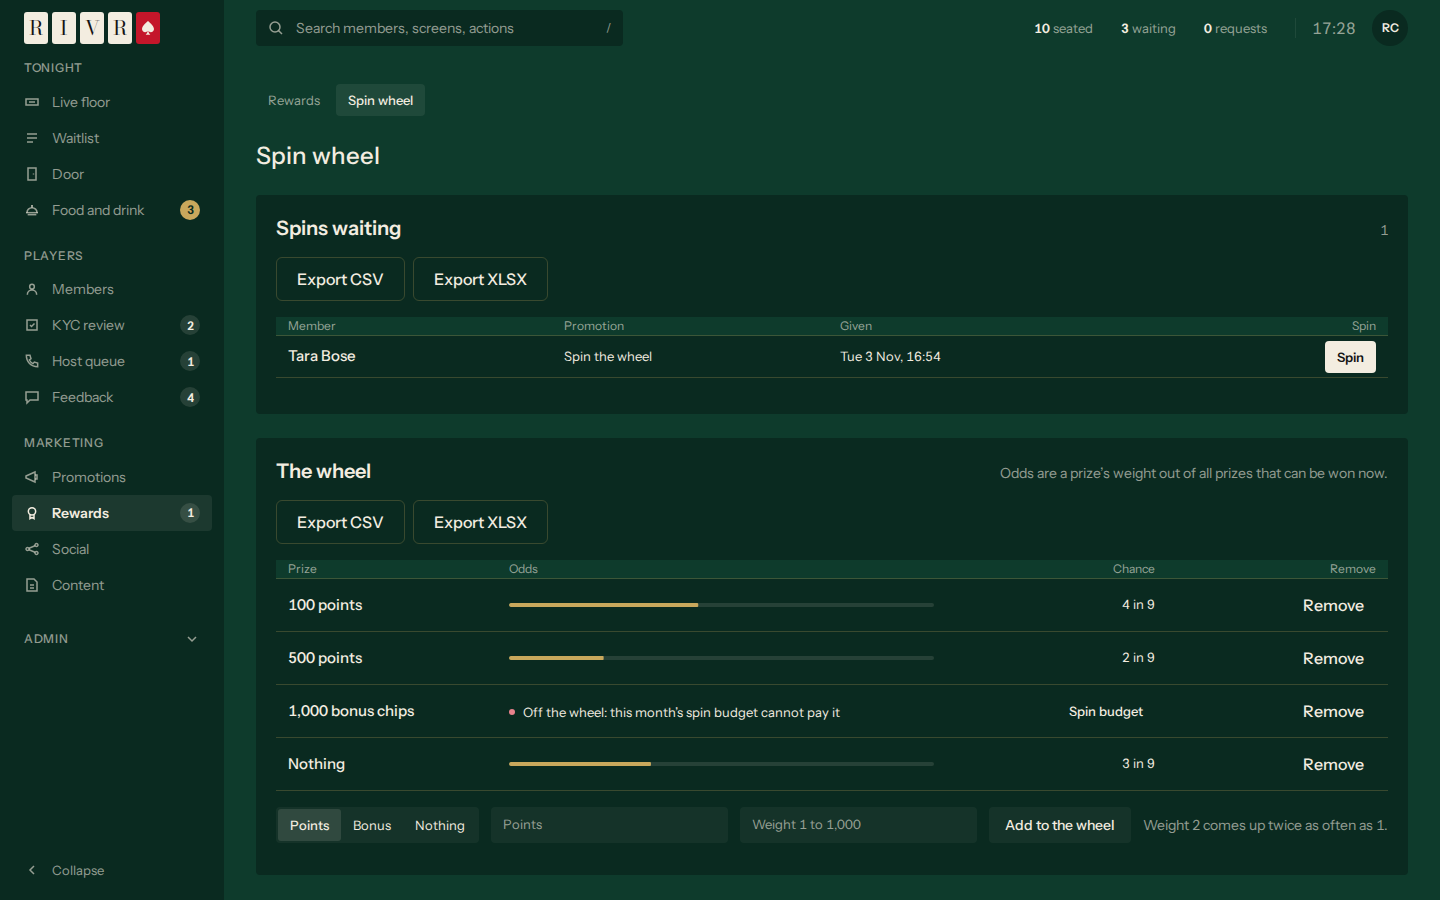
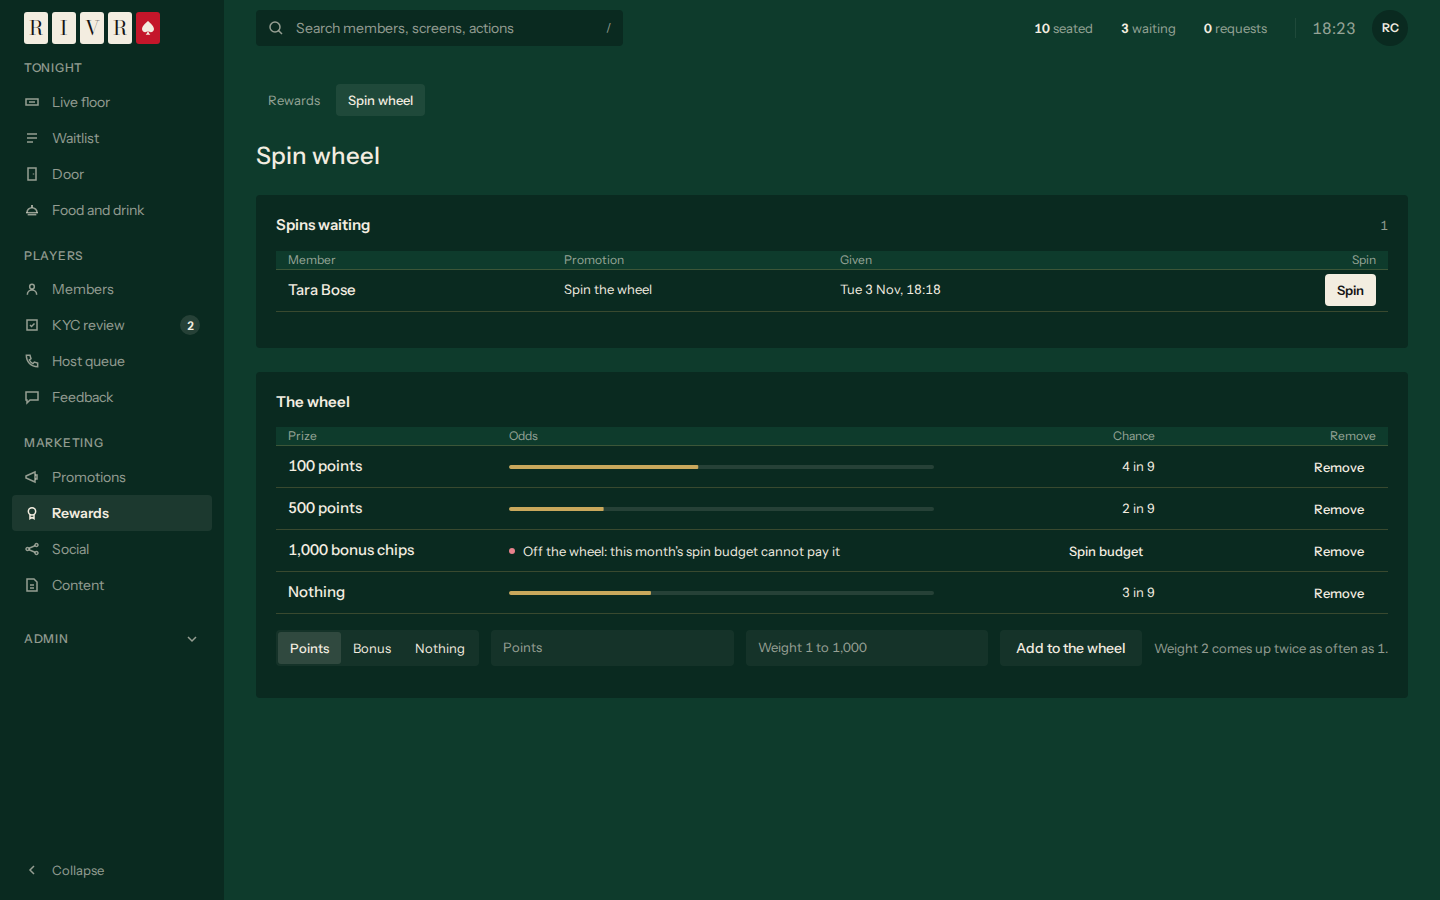
fix(spin-wheel): the budget link reaches Settings' area, for those who may
The off-the-wheel reason links to /settings?tab=settings&part=members,
and only for staff who may open Settings. The wheel's tables leave out
exports, Remove is small, the hint under the wheel is gone, and the
Rewards panels use the console's card headings and row text.

diff --git a/apps/console/src/features/spin-wheel/components/PrizeWheel.tsx b/apps/console/src/features/spin-wheel/components/PrizeWheel.tsx
@@ -1,12 +1,23 @@
 import { useSpinWheel, useSpinWheelActions, type SpinPrize } from '@rivr/db/spin';
 import { formatNumber, t } from '@rivr/i18n';
-import { Box, Button, ConfirmButton, DataTable, DotStatus, ErrorMessage, Heading, Inline, ProgressBar, Stack, Text, type DataTableColumn } from '@rivr/ui';
+import { Box, Button, ConfirmButton, DataTable, DataTableExportProvider, DotStatus, ErrorMessage, Heading, ProgressBar, Stack, type DataTableColumn } from '@rivr/ui';
 import { useState } from 'react';
 import { PrizeForm } from './PrizeForm.tsx';
 import { prizeLabel } from './prizeLabel.ts';
 
-// The spin budget is a rule of the Members and rewards area on Settings (spin.budget).
-const SPIN_BUDGET_SETTING = '/settings?tab=members';
+// The spin budget is a rule of Settings' Members and rewards area (spin.budget), a part of its Settings tab.
+const SPIN_BUDGET_SETTING = '/settings?tab=settings&part=members';
+
+/** What the wheel's rows need to draw: the weights of the prizes that can be won now, and who may do what. */
+interface WheelLook {
+  readonly total: number;
+  /** Staff who keep the wheel remove prizes; null for others. */
+  readonly onRemove: ((prize: SpinPrize) => void) | null;
+  /** Staff who open Settings' rules (settings.manage or venue.configure) get the way to the spin budget. */
+  readonly canOpenSettings: boolean;
+}
+
+const oddsText = (prize: SpinPrize, total: number) => t('console.spin.oddsValue', { weight: formatNumber(prize.weight), odds: formatNumber(total) });
 
 /**
  * A prize's odds: its weight's share of the prizes that can be won now as a bar; or, for a bonus this month's spin budget
@@ -17,30 +28,40 @@ function OddsCell({ prize, total }: { prize: SpinPrize; total: number }) {
   return <DotStatus tone="danger" label={t('console.spin.budgetSpent')} />;
 }
 
-/** Its chance in words, "4 in 9"; off the wheel, the way to the spin budget in its place, on the same line. */
-function ChanceCell({ prize, total }: { prize: SpinPrize; total: number }) {
-  if (prize.isDrawable) return <>{t('console.spin.oddsValue', { weight: formatNumber(prize.weight), odds: formatNumber(total) })}</>;
+/** Its chance in words, "4 in 9"; off the wheel, "Off", or the way to the spin budget for staff who may change it. */
+function ChanceCell({ prize, look }: { prize: SpinPrize; look: WheelLook }) {
+  if (prize.isDrawable) return <>{oddsText(prize, look.total)}</>;
+  if (!look.canOpenSettings) return <>{t('console.spin.offWheel')}</>;
   return <Button variant="text" size="small" href={SPIN_BUDGET_SETTING}>{t('console.spin.budgetLink')}</Button>;
 }
 
 /** What it gives, its odds, its chance, and Remove for staff who keep the wheel. */
-function columnsFor(total: number, onRemove: ((prize: SpinPrize) => void) | null): readonly DataTableColumn<SpinPrize>[] {
+function columnsFor(look: WheelLook): readonly DataTableColumn<SpinPrize>[] {
   const columns: DataTableColumn<SpinPrize>[] = [
     { key: 'prize', header: t('console.spin.prize'), cell: (row) => prizeLabel(row) },
-    { key: 'odds', header: t('console.spin.odds'), isWide: true, cell: (row) => <OddsCell prize={row} total={total} /> },
-    { key: 'chance', header: t('console.spin.chance'), align: 'end', cell: (row) => <ChanceCell prize={row} total={total} />,
-      exportValue: (row) => (row.isDrawable ? t('console.spin.oddsValue', { weight: formatNumber(row.weight), odds: formatNumber(total) }) : t('console.spin.budgetSpent')) },
+    { key: 'odds', header: t('console.spin.odds'), isWide: true, cell: (row) => <OddsCell prize={row} total={look.total} /> },
+    { key: 'chance', header: t('console.spin.chance'), align: 'end', cell: (row) => <ChanceCell prize={row} look={look} />,
+      exportValue: (row) => (row.isDrawable ? oddsText(row, look.total) : t('console.spin.budgetSpent')) },
   ];
+  const { onRemove } = look;
   if (onRemove === null) return columns;
   // Asked twice: a removed prize is gone from the wheel at once (F2-21).
   return [...columns, { key: 'remove', header: t('console.spin.remove'), align: 'end', cell: (row) => (
-    <ConfirmButton label={t('console.spin.remove')} name={t('console.spin.removeName', { prize: prizeLabel(row) })}
+    <ConfirmButton variant="text" size="small" label={t('console.spin.remove')} name={t('console.spin.removeName', { prize: prizeLabel(row) })}
       confirm={t('console.spin.confirmRemove', { prize: prizeLabel(row) })} onConfirm={() => onRemove(row)} />
   ) }];
 }
 
+interface WheelProps {
+  readonly venueId: string;
+  /** promotions.manage: add and remove prizes. */
+  readonly canKeep: boolean;
+  /** settings.manage or venue.configure: the link to the spin budget on Settings. */
+  readonly canOpenSettings: boolean;
+}
+
 /** The prizes as a table, or its loading or error state. */
-function PrizeRows({ venueId, canKeep }: { venueId: string; canKeep: boolean }) {
+function PrizeRows({ venueId, canKeep, canOpenSettings }: WheelProps) {
   const wheel = useSpinWheel(venueId);
   const { remove } = useSpinWheelActions(venueId);
   const [failure, setFailure] = useState<string | null>(null);
@@ -49,7 +70,7 @@ function PrizeRows({ venueId, canKeep }: { venueId: string; canKeep: boolean }) 
     setFailure(done.ok ? null : t(`console.spin.failures.${done.error}`));
   }) : null;
   // On a phone the prizes keep their lines, scrolling sideways, so a bar and an off-the-wheel reason keep their room.
-  const base = { label: t('console.spin.wheel'), columns: columnsFor(total, onRemove), rowKey: (row: SpinPrize) => row.prizeId, narrowLayout: 'scroll' as const };
+  const base = { label: t('console.spin.wheel'), columns: columnsFor({ total, onRemove, canOpenSettings }), rowKey: (row: SpinPrize) => row.prizeId, narrowLayout: 'scroll' as const };
   return (
     <>
       {wheel.data === undefined && wheel.isError ? <DataTable {...base} status="error" onRetry={() => void wheel.refetch()} /> : null}
@@ -60,17 +81,17 @@ function PrizeRows({ venueId, canKeep }: { venueId: string; canKeep: boolean }) 
   );
 }
 
-/** The wheel's prizes in order (#150), with their odds, on one raised panel; staff who run promotions add and remove prizes. */
-export function PrizeWheel({ venueId, canKeep }: { venueId: string; canKeep: boolean }) {
+/**
+ * The wheel's prizes in order (#150), with their odds, on one raised panel; staff who run promotions add and remove prizes.
+ * No export: the prizes are the screen itself, not a record to keep.
+ */
+export function PrizeWheel(props: WheelProps) {
   return (
     <Box surface="raised" radius="md" padding={5}>
       <Stack gap={4}>
-        <Inline justify="between" align="baseline" gap={3} wrap>
-          <Heading level={2} variant="section">{t('console.spin.wheel')}</Heading>
-          <Text variant="small" tone="muted">{t('console.spin.wheelHint')}</Text>
-        </Inline>
-        <PrizeRows venueId={venueId} canKeep={canKeep} />
-        {canKeep ? <PrizeForm venueId={venueId} /> : null}
+        <Heading level={2} variant="card">{t('console.spin.wheel')}</Heading>
+        <DataTableExportProvider exporter={null}><PrizeRows {...props} /></DataTableExportProvider>
+        {props.canKeep ? <PrizeForm venueId={props.venueId} /> : null}
       </Stack>
     </Box>
   );

diff --git a/apps/console/src/features/spin-wheel/components/PrizeWheel.test.tsx b/apps/console/src/features/spin-wheel/components/PrizeWheel.test.tsx
@@ -1,4 +1,5 @@
 import { createRivrClient, RivrDataProvider, SESSION_STORAGE_KEY } from '@rivr/db';
+import { DataTableExportProvider } from '@rivr/ui';
 import { QueryClient } from '@tanstack/react-query';
 import { cleanup, fireEvent, render, screen, waitFor, within } from '@testing-library/react';
 import { afterEach, describe, expect, it, vi } from 'vitest';
@@ -18,8 +19,11 @@ const ON_WHEEL = [
   { prize_id: 'p4', kind: 'nothing', amount: 0, weight: 3, is_drawable: true },
 ];
 
-/** Aditya, who runs promotions, signed in, and a fake API with the wheel's prizes that keeps each removal sent. */
-function renderPrizes(prizes: readonly object[] = ON_WHEEL) {
+/**
+ * Aditya, who runs promotions, signed in beneath the console's exports, and a fake API with the wheel's prizes that keeps
+ * each removal sent; `canOpenSettings` for staff who open Settings' rules.
+ */
+function renderPrizes(prizes: readonly object[] = ON_WHEEL, canOpenSettings = true) {
   localStorage.setItem(SESSION_STORAGE_KEY, JSON.stringify({
     access_token: 'test', refresh_token: 'test', token_type: 'bearer', expires_in: 3600, expires_at: Math.floor(Date.now() / 1000) + 3600,
     user: { id: '00000000-0000-4000-8000-000000000103', aud: 'authenticated', app_metadata: {}, user_metadata: {}, created_at: '2026-10-18T00:00:00Z' },
@@ -37,7 +41,9 @@ function renderPrizes(prizes: readonly object[] = ON_WHEEL) {
   const cache = new QueryClient({ defaultOptions: { queries: { retry: false } } });
   render(
     <RivrDataProvider client={createRivrClient({ url: 'http://127.0.0.1:9', publishableKey: 'test' })} queryClient={cache}>
-      <PrizeWheel venueId="v1" canKeep />
+      <DataTableExportProvider exporter={async () => true}>
+        <PrizeWheel venueId="v1" canKeep canOpenSettings={canOpenSettings} />
+      </DataTableExportProvider>
     </RivrDataProvider>,
   );
   return removed;
@@ -52,12 +58,26 @@ describe('PrizeWheel', () => {
     expect(within(wheel).getByRole('row', { name: /Nothing.*3 in 9/ })).toBeDefined();
   });
 
-  it('says why a bonus is off the wheel, and links to the spin budget', async () => {
+  it('says why a bonus is off the wheel, and links staff who open Settings to the spin budget there', async () => {
     renderPrizes();
     const row = await screen.findByRole('row', { name: /1,000 bonus chips/ }, { timeout: 5000 });
     expect(within(row).getByText('Off the wheel: this month’s spin budget cannot pay it')).toBeDefined();
-    expect(within(row).getByRole('link', { name: 'Spin budget' }).getAttribute('href')).toBe('/settings?tab=members');
+    expect(within(row).getByRole('link', { name: 'Spin budget' }).getAttribute('href')).toBe('/settings?tab=settings&part=members');
     expect(within(row).queryByText(/ in 9$/)).toBeNull();
+  });
+
+  it('gives staff who cannot open Settings the reason alone, the prize Off', async () => {
+    renderPrizes(ON_WHEEL, false);
+    const row = await screen.findByRole('row', { name: /1,000 bonus chips/ }, { timeout: 5000 });
+    expect(within(row).getByText('Off the wheel: this month’s spin budget cannot pay it')).toBeDefined();
+    expect(within(row).getByText('Off')).toBeDefined();
+    expect(within(row).queryByRole('link')).toBeNull();
+  });
+
+  it('offers no export of the prizes, though the console exports its tables', async () => {
+    renderPrizes();
+    await screen.findByRole('table', { name: 'The wheel' }, { timeout: 5000 });
+    expect(screen.queryByRole('button', { name: /^Export / })).toBeNull();
   });
 
   it('removes a prize only on the second press', async () => {

diff --git a/apps/console/src/features/spin-wheel/components/WaitingSpins.tsx b/apps/console/src/features/spin-wheel/components/WaitingSpins.tsx
@@ -1,6 +1,6 @@
 import { useSpin, useSpinWheel, useWaitingSpins, type WaitingSpin } from '@rivr/db/spin';
 import { formatDayTime, formatNumber, t } from '@rivr/i18n';
-import { Box, Button, DataTable, ErrorMessage, Heading, Inline, Stack, StatusMessage, Text, type DataTableColumn } from '@rivr/ui';
+import { Box, Button, DataTable, DataTableExportProvider, ErrorMessage, Heading, Inline, Stack, StatusMessage, Text, type DataTableColumn } from '@rivr/ui';
 import { useState, type ReactNode } from 'react';
 import { prizeLabel } from './prizeLabel.ts';
 
@@ -17,8 +17,8 @@ function WaitingHeading({ saysWhy, count }: { saysWhy: boolean; count: number | 
   return (
     <Stack gap={2}>
       <Inline justify="between" align="baseline" gap={3}>
-        <Heading level={2} variant="section">{t('console.spin.waiting')}</Heading>
-        {count === undefined ? null : <Text variant="small" tone="muted">{formatNumber(count)}</Text>}
+        <Heading level={2} variant="card">{t('console.spin.waiting')}</Heading>
+        {count === undefined ? null : <Text variant="secondary" tone="muted">{formatNumber(count)}</Text>}
       </Inline>
       {saysWhy ? <Text>{t('console.spin.noDrawable')}</Text> : null}
     </Stack>
@@ -65,7 +65,8 @@ export function WaitingSpins({ venueId }: { venueId: string }) {
     <Box surface="raised" radius="md" padding={5}>
       <Stack gap={4}>
         <WaitingHeading saysWhy={saysWhy} count={waiting.data?.length} />
-        <WaitingRows waiting={waiting} columns={columnsFor(spinButton)} />
+        {/* No export: the spins are the night's work, not a record to keep. */}
+        <DataTableExportProvider exporter={null}><WaitingRows waiting={waiting} columns={columnsFor(spinButton)} /></DataTableExportProvider>
         <StatusMessage>{outcome?.ok === true ? outcome.text : null}</StatusMessage>
         {outcome?.ok === false ? <ErrorMessage>{outcome.text}</ErrorMessage> : null}
       </Stack>

diff --git a/apps/console/src/features/rewards/components/PointsByHand.tsx b/apps/console/src/features/rewards/components/PointsByHand.tsx
@@ -18,7 +18,7 @@ export function PointsByHand({ venueId }: { venueId: string }) {
   const digits = typed.replace(/\D/g, '').replace(/^91(?=\d{10}$)/, '');
   return (
     <Stack gap={4}>
-      <Heading level={2} variant="section">{t('console.rewards.byHand.heading')}</Heading>
+      <Heading level={2} variant="card">{t('console.rewards.byHand.heading')}</Heading>
       {/* The field and Find, both 36 px at a desk, centred on one line. */}
       <Inline gap={3} align="center">
         <Input variant="subtle" label={t('console.rewards.byHand.phone')} type="tel" inputMode="numeric" maxLength={16} value={typed}
@@ -105,10 +105,10 @@ function PointsHeld({ member }: { member: MemberPoints }) {
     <Stack gap={4}>
       <Text variant="lead">{t('console.rewards.byHand.member', { name: member.fullName, number: String(member.memberNumber) })}</Text>
       <Grid columns={2} gap={6}>
-        <Stack gap={1}><Text variant="small" tone="muted">{t('console.rewards.byHand.earned')}</Text><Figure value={member.earned} size="title" /></Stack>
-        <Stack gap={1}><Text variant="small" tone="muted">{t('console.rewards.byHand.locked')}</Text><Figure value={member.locked} size="title" /></Stack>
+        <Stack gap={1}><Text variant="secondary" tone="muted">{t('console.rewards.byHand.earned')}</Text><Figure value={member.earned} size="title" /></Stack>
+        <Stack gap={1}><Text variant="secondary" tone="muted">{t('console.rewards.byHand.locked')}</Text><Figure value={member.locked} size="title" /></Stack>
       </Grid>
-      <Text variant="small" tone="muted">{t('console.rewards.byHand.lockedHint')}</Text>
+      <Text variant="secondary" tone="muted">{t('console.rewards.byHand.lockedHint')}</Text>
     </Stack>
   );
 }

diff --git a/apps/console/src/features/rewards/components/LeagueCsvImport.tsx b/apps/console/src/features/rewards/components/LeagueCsvImport.tsx
@@ -34,7 +34,7 @@ function FileSummary({ chosen }: { chosen: Chosen }) {
     return (
       <Stack gap={2}>
         {problems.slice(0, PROBLEMS_SHOWN).map((problem) => <ErrorMessage key={JSON.stringify(problem)}>{problemText(problem)}</ErrorMessage>)}
-        {more > 0 ? <Text variant="small" tone="muted">{t('console.rewards.leagueCsv.more', { count: formatNumber(more) })}</Text> : null}
+        {more > 0 ? <Text variant="secondary" tone="muted">{t('console.rewards.leagueCsv.more', { count: formatNumber(more) })}</Text> : null}
       </Stack>
     );
   }
@@ -85,8 +85,8 @@ export function LeagueCsvImport({ venueId }: { venueId: string }) {
   };
   return (
     <Stack gap={4}>
-      <Heading level={2} variant="section">{t('console.rewards.leagueCsv.heading')}</Heading>
-      <Text variant="small" tone="muted">{t('console.rewards.leagueCsv.format')}</Text>
+      <Heading level={2} variant="card">{t('console.rewards.leagueCsv.heading')}</Heading>
+      <Text variant="secondary" tone="muted">{t('console.rewards.leagueCsv.format')}</Text>
       <Inline>
         <CameraButton variant="subtle" camera="none" accept=".csv,text/csv" onPhoto={(file) => void choose(file)}>
           {t(chosen === null ? 'console.rewards.leagueCsv.choose' : 'console.rewards.leagueCsv.chooseAnother')}

diff --git a/apps/console/src/features/rewards/components/CatalogueList.tsx b/apps/console/src/features/rewards/components/CatalogueList.tsx
@@ -17,11 +17,11 @@ function ItemRow({ item, canEdit, onEdit }: { item: RewardItem; canEdit: boolean
     <Box paddingX={4} paddingY={3}>
       <Inline justify="between" align="center" gap={4} wrap>
         <Stack gap={1} grow>
-          <Text weight="medium">{item.name}</Text>
-          <Text variant="small" tone="muted">{t('console.rewards.itemLine', { kind: t(`console.rewards.kinds.${item.kind}`), detail: item.detail })}</Text>
+          <Text variant="row" weight="medium">{item.name}</Text>
+          <Text variant="secondary" tone="muted">{t('console.rewards.itemLine', { kind: t(`console.rewards.kinds.${item.kind}`), detail: item.detail })}</Text>
         </Stack>
         <Inline gap={4} align="center">
-          <Text variant="small">{t('console.rewards.priceAndStock', { price: priceText(item), stock: stockText(item) })}</Text>
+          <Text variant="secondary">{t('console.rewards.priceAndStock', { price: priceText(item), stock: stockText(item) })}</Text>
           <DotStatus tone={item.isLive ? 'active' : 'inactive'} label={t(item.isLive ? 'console.rewards.live' : 'console.rewards.retired')} />
           {canEdit ? (
             <Button variant="subtle" size="small" aria-label={t('console.rewards.editName', { name: item.name })} onClick={() => onEdit(item)}>

diff --git a/apps/console/src/features/rewards/components/RewardsScreen.test.tsx b/apps/console/src/features/rewards/components/RewardsScreen.test.tsx
@@ -69,7 +69,7 @@ describe('Rewards', () => {
 
   it('keeps points by hand and League points from a file together on their tab', async () => {
     renderAs('floor', 'points');
-    expect(await screen.findByRole('heading', { name: 'Give points by hand' }, LAZY)).toBeDefined();
+    expect(await screen.findByRole('heading', { name: 'Points by hand' }, LAZY)).toBeDefined();
     expect(screen.getByRole('heading', { name: 'League points from a CSV' })).toBeDefined();
   });
 
@@ -77,7 +77,7 @@ describe('Rewards', () => {
     renderAs('marketing', 'points');
     expect(await screen.findByText('RIVR hoodie', {}, LAZY)).toBeDefined();
     expect(screen.queryByRole('link', { name: 'Points by hand' })).toBeNull();
-    expect(screen.queryByRole('heading', { name: 'Give points by hand' })).toBeNull();
+    expect(screen.queryByRole('heading', { name: 'Points by hand' })).toBeNull();
   });
 
   it('asks the address to change when a part is chosen', async () => {

diff --git a/packages/i18n/src/catalogue/en/spin.ts b/packages/i18n/src/catalogue/en/spin.ts
@@ -11,15 +11,15 @@ export const spin = {
   spinFor: 'Spin for {name}',
   won: '{name} won {prize}.',
   wheel: 'The wheel',
-  wheelHint: 'Odds are a prize’s weight out of all prizes that can be won now.',
   noPrizes: 'No prizes on the wheel yet.',
   /** Above the waiting spins while no prize can be drawn: Spin waits for one (C-08). */
   noDrawable: 'The wheel has no prize to draw. Add one, then spin.',
   prize: 'Prize',
   odds: 'Odds',
-  /** The odds in words: `3 in 10`. */
+  /** The odds in words, `3 in 10`, a prize's weight out of the weights of all prizes that can be won now; `Off` off the wheel. */
   chance: 'Chance',
   oddsValue: '{weight} in {odds}',
+  offWheel: 'Off',
   /** A bonus more than what is left of this month's spin budget is off the wheel, here and on the TVs. */
   budgetSpent: 'Off the wheel: this month’s spin budget cannot pay it',
   /** Where that budget is set: Settings, Members and rewards. */

diff --git a/apps/console/src/features/rewards/components/PointsTab.tsx b/apps/console/src/features/rewards/components/PointsTab.tsx
@@ -4,11 +4,11 @@ import { PointsByHand } from './PointsByHand.tsx';
 
 /**
  * Points by hand (console v3), for staff with points.give: one member's points, earned, locked or League, within the staff
- * member's daily limit (#815); beside it, League points for many members from a CSV (L-01). Side by side at a desk.
+ * member's daily limit (#815); beside it, League points for many members from a CSV (L-01). The console's cards.
  */
 export function PointsTab({ venueId }: { venueId: string }) {
   return (
-    <Grid columns={2} gap={4} stackBelow="medium">
+    <Grid columns="cards" gap={4}>
       <Box surface="raised" radius="md" padding={5}><PointsByHand venueId={venueId} /></Box>
       <Box surface="raised" radius="md" padding={5}><LeagueCsvImport venueId={venueId} /></Box>
     </Grid>

diff --git a/apps/console/src/features/spin-wheel/components/PrizeForm.tsx b/apps/console/src/features/spin-wheel/components/PrizeForm.tsx
@@ -56,7 +56,7 @@ export function PrizeForm({ venueId }: { venueId: string }) {
         )}
         <Input variant="subtle" label={t('console.spin.weight')} value={weight} inputMode="numeric" autoComplete="off" onChange={(event) => setWeight(event.target.value)} />
         <Button variant="subtle" size="compact" isLoading={prize.isPending} onClick={submit}>{t('console.spin.add')}</Button>
-        <Text variant="small" tone="muted">{t('console.spin.weightHint')}</Text>
+        <Text variant="secondary" tone="muted">{t('console.spin.weightHint')}</Text>
       </Inline>
       <StatusMessage>{prize.outcome?.ok === true ? prize.outcome.text : null}</StatusMessage>
       {prize.outcome?.ok === false ? <ErrorMessage>{prize.outcome.text}</ErrorMessage> : null}

diff --git a/apps/console/src/features/rewards/components/RewardForm.tsx b/apps/console/src/features/rewards/components/RewardForm.tsx
@@ -86,7 +86,7 @@ export function RewardForm({ venueId, item, onOutcome, onCancel }: {
   });
   return (
     <Stack gap={4}>
-      <Heading level={2} variant="section">{item === null ? t('console.rewards.newReward') : t('console.rewards.editName', { name: item.name })}</Heading>
+      <Heading level={2} variant="card">{item === null ? t('console.rewards.newReward') : t('console.rewards.editName', { name: item.name })}</Heading>
       <Choices form={form} />
       {/* A reward is saved before it has a photo: the photo goes on the reward, by its id. */}
       {item === null ? null : <RewardPhotoField venueId={venueId} item={item} />}

diff --git a/apps/console/src/features/rewards/components/RedemptionList.tsx b/apps/console/src/features/rewards/components/RedemptionList.tsx
@@ -100,7 +100,7 @@ function Section({ venueId, isWaiting, rows, onRetry }: SectionProps) {
   return (
     <Box surface="raised" radius="md" padding={5}>
       <Stack gap={4}>
-        <Heading level={2} variant="section">{label}</Heading>
+        <Heading level={2} variant="card">{label}</Heading>
         {rows === 'loading' ? <DataTable {...base} status="loading" /> : null}
         {rows === 'error' ? <DataTable {...base} status="error" onRetry={onRetry} /> : null}
         {typeof rows === 'object' ? <DataTable {...base} rows={rows} emptyText={emptyText} /> : null}
